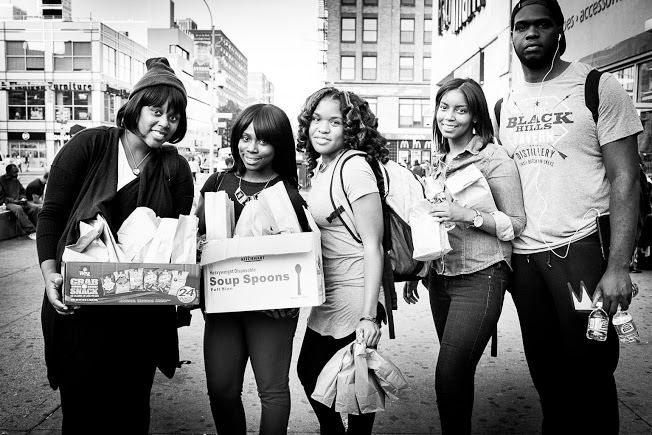
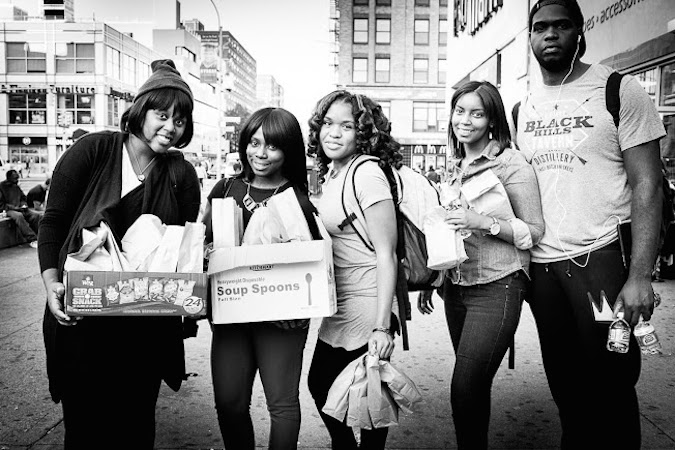
added toydrive flier

diff --git a/layout.html b/layout.html
@@ -61,25 +61,16 @@
 			</div>
 		</section>
 
-		<!-- <section id="what_we_do">
-			<div class="section3"> -->
-				<!-- <h1 class="mission"><i>Mission Statement</i></h1>
-					<p><center>FEED. CLOTHE. PRAY. is dedicated in strengthening and restoring our communities, to make the world a peaceful place. 
-					</center></p> -->
-				<!-- THIS IS THE WHAT WE DO PAGE -->
-		<!-- 		<div id="container">
-					<img src="images/feed.jpg">
-					<img src="images/clothe.jpg">
-					<img src="images/pray.jpg">
-				</div>
-			</div>
-		</section> -->
-
 		<!-- THIS IS THE GET INVOLVED PAGE -->
 
 		<section id="get_involved" data-stellar-background-ratio="1">
 			<div class="section4">
 				<h1><i>Get Involved</i></h1>
+					<div class="vol1">
+						<img src="images/toydrive2.jpeg">
+					</div>
+					<div class="vol2">
+					</div>
 			</div>
 		</section>
 
@@ -133,17 +124,6 @@
 			<!-- 	THIS IS THE SHOP PAGE -->
 			</div>
 		</section> 
-
-	<!-- 	<section id="org_quote" data-stellar-background-ratio="0.5">
-			<div class="quote">
-				<!-- ORGANIZATION QUOTE -->
-				<!-- <p>
-					<i>Then he said to his disciples, “The harvest is plentiful but the workers are few. Ask the Lord of the harvest, therefore, to send out workers into his harvest field.”<br>
-					Matthews 9:37-38
-					</i>
-				</p>
-			</div>
-		</section> -->
 		
 		<section id="footer" data-stellar-background-ratio="1">
 			<div class="footer">
@@ -164,9 +144,6 @@
 				<a href="mailto:feed.clothe.pray@gmail.com"> <img src="images/gmail.jpeg"></a>
 					<center><p id="brand">&#169;BuffaloBrand</p></center>
 			</div>
-			<!-- <div id="copyright">
-				<center><p id="brand">&#169;BuffaloBrand</p></center>
-			</div> -->
 		</section>
 
 		<!-- JS AND STELLAR.JS SCRIPTS  -->

diff --git a/css/layout.css b/css/layout.css
@@ -138,11 +138,17 @@ h3{
 }*/
 /*GET INVOLVED PAGE*/
 .section4{
-	background-image: url(../images/team.jpg);
+	background-image: url(../images/pray.jpg);
 	background-size: cover;
 	height: 100vh;
 	padding-top: 70px;
 	background-attachment: fixed;
+}
+
+.vol1{
+padding-bottom: 20px;
+padding-top: 30px;
+padding-left: 80px;
 }
 
 
@@ -169,7 +175,7 @@ h3{
 .desc1, .desc2{
 	float:left;
 	padding-left:104px;
-	width:35%;
+	width:34%;
 }
 
 .paypal_btn{
@@ -195,10 +201,6 @@ h3{
 /*	color:black;*/
 }
 
-/*circular images*/
-/*#container > img{
-	border-radius: 200px;
-}*/
 
 /*social media linka*/
 .footer > a img{
